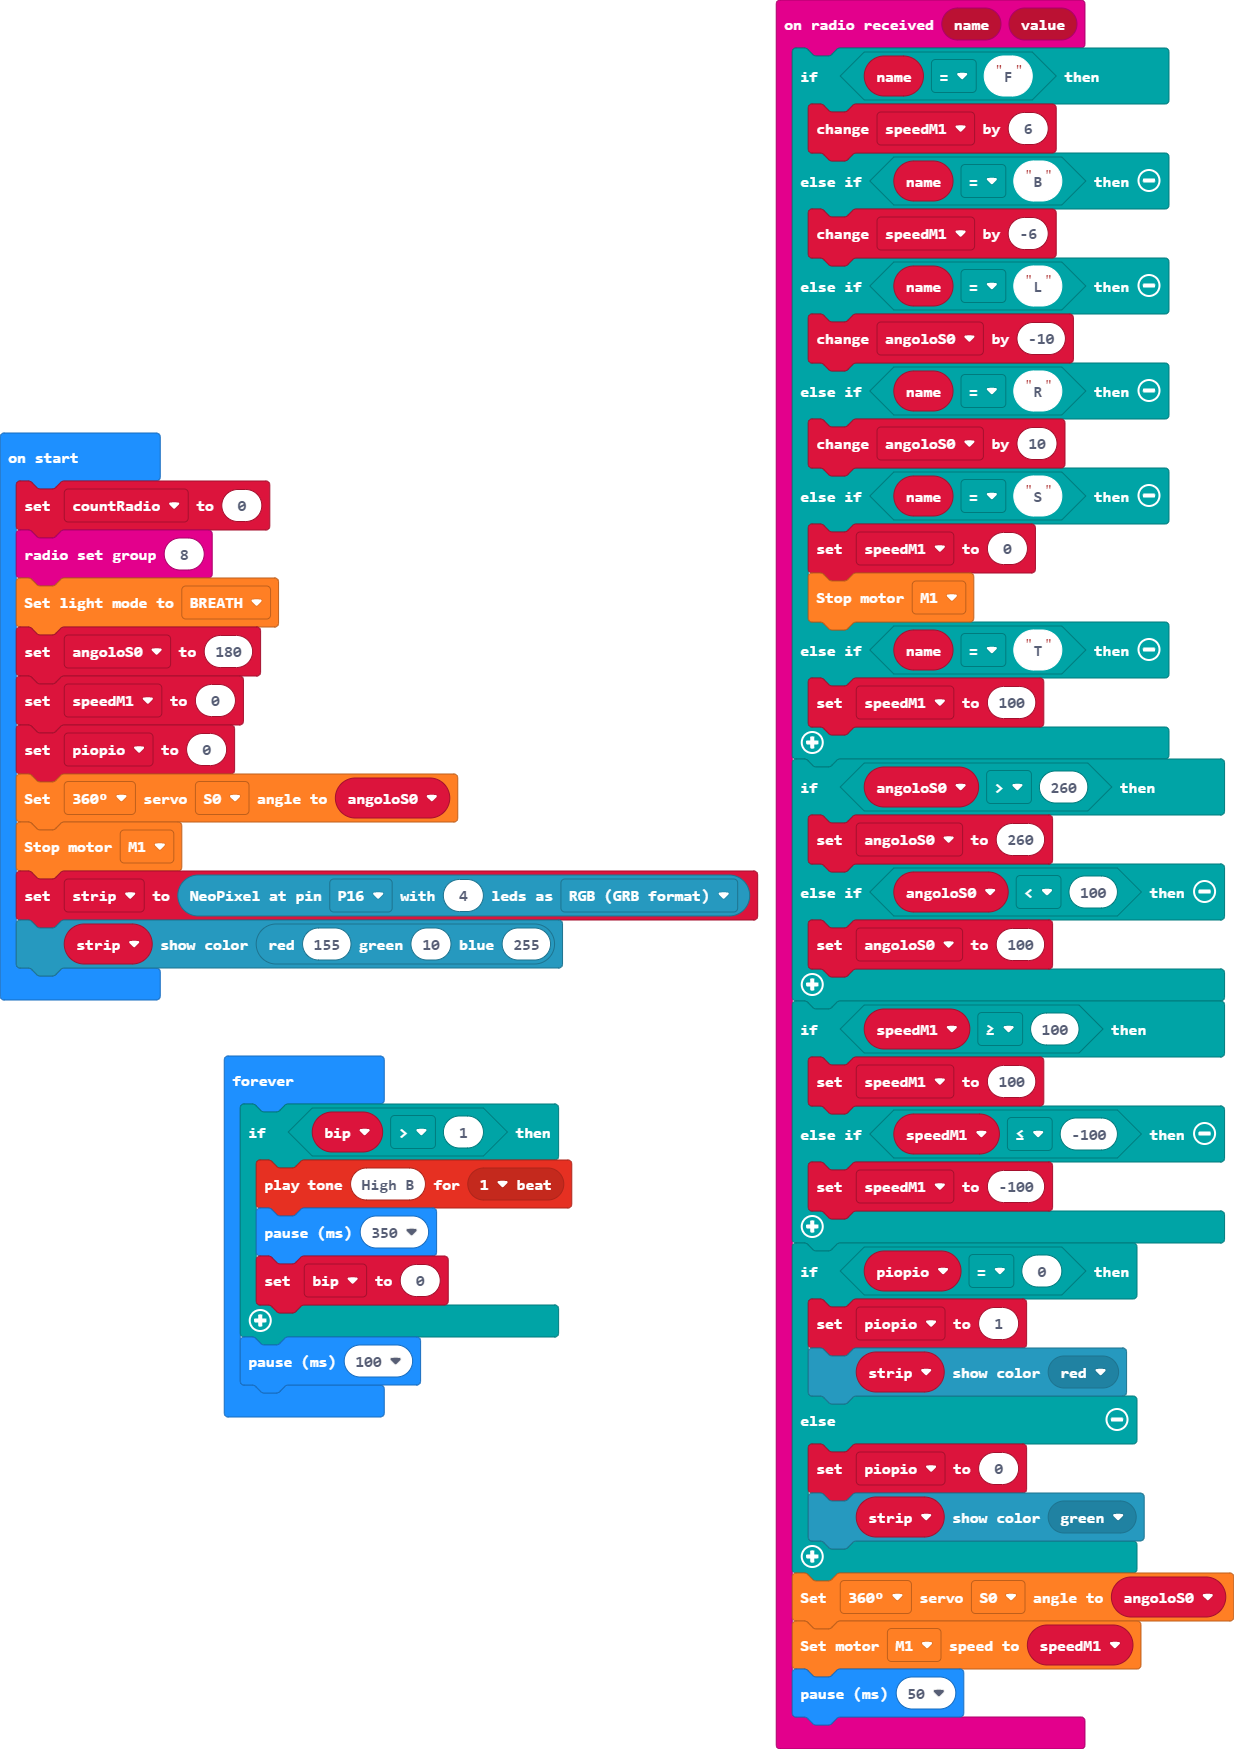
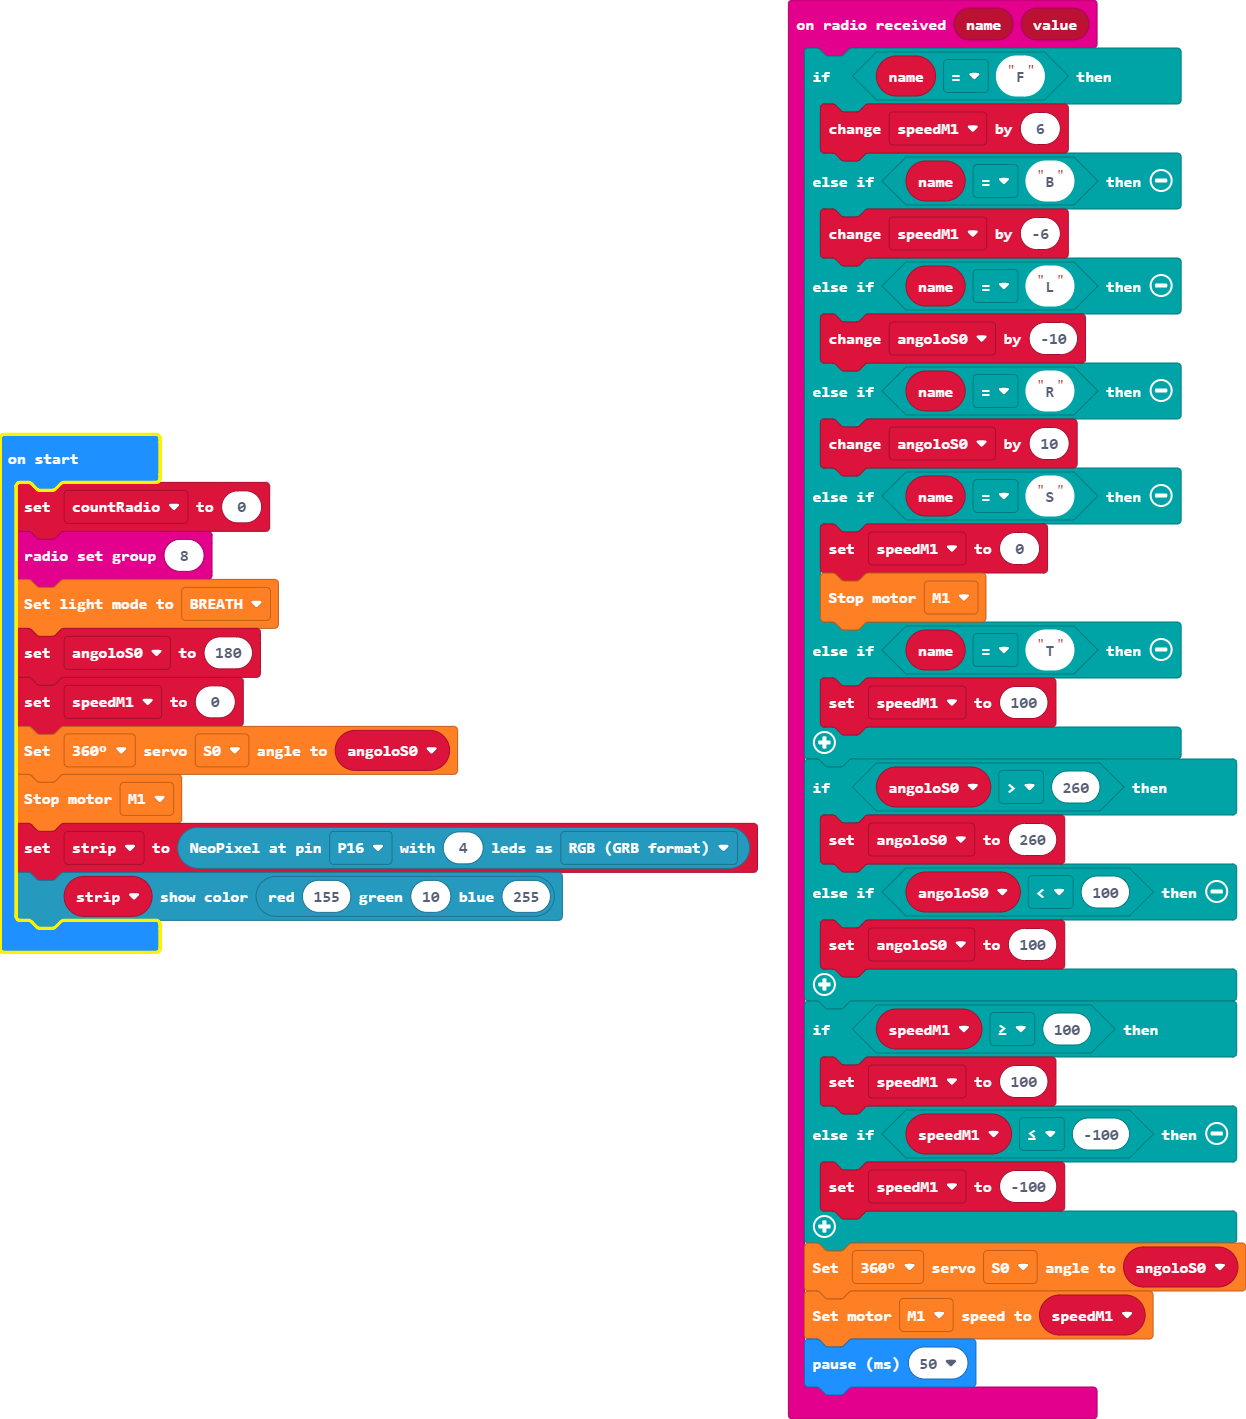
Update main.blocks, main.ts

diff --git a/main.ts b/main.ts
@@ -23,20 +23,10 @@ radio.onReceivedValue(function (name, value) {
     } else if (speedM1 <= -100) {
         speedM1 = -100
     }
-    if (piopio == 0) {
-        piopio = 1
-        strip.showColor(neopixel.colors(NeoPixelColors.Red))
-    } else {
-        piopio = 0
-        strip.showColor(neopixel.colors(NeoPixelColors.Green))
-    }
     wuKong.setServoAngle(wuKong.ServoTypeList._360, wuKong.ServoList.S0, angoloS0)
     wuKong.setMotorSpeed(wuKong.MotorList.M1, speedM1)
     basic.pause(50)
 })
-let bip = 0
-let strip: neopixel.Strip = null
-let piopio = 0
 let speedM1 = 0
 let angoloS0 = 0
 let countRadio = 0
@@ -44,16 +34,7 @@ radio.setGroup(8)
 wuKong.setLightMode(wuKong.LightMode.BREATH)
 angoloS0 = 180
 speedM1 = 0
-piopio = 0
 wuKong.setServoAngle(wuKong.ServoTypeList._360, wuKong.ServoList.S0, angoloS0)
 wuKong.stopMotor(wuKong.MotorList.M1)
-strip = neopixel.create(DigitalPin.P16, 4, NeoPixelMode.RGB)
+let strip = neopixel.create(DigitalPin.P16, 4, NeoPixelMode.RGB)
 strip.showColor(neopixel.rgb(155, 10, 255))
-basic.forever(function () {
-    if (bip > 1) {
-        music.playTone(988, music.beat(BeatFraction.Whole))
-        basic.pause(350)
-        bip = 0
-    }
-    basic.pause(100)
-})
